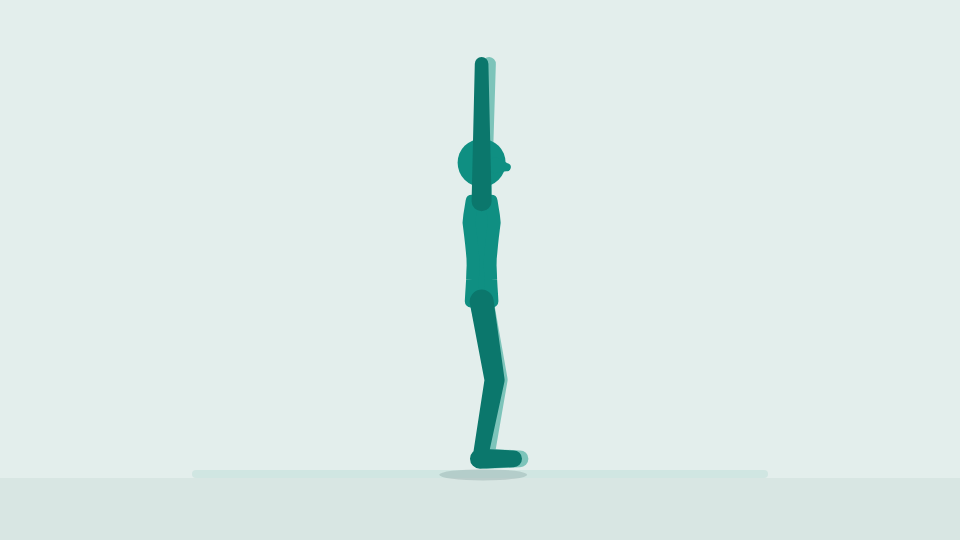
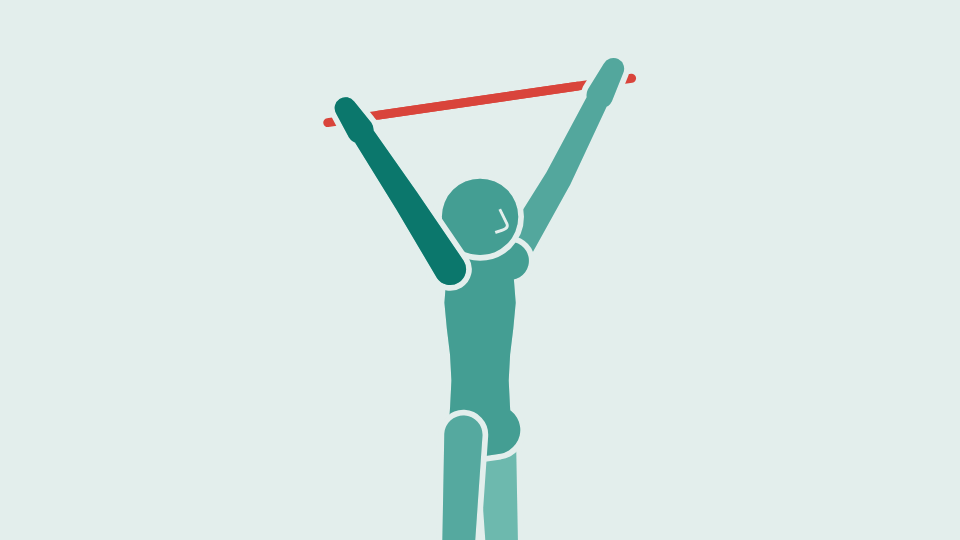
feat: add Shoulder Pass-Throughs exercise with 3D animation and update related components

Changed region(s): [[0.3125, 0.0889, 0.6562, 1.0]]

diff --git a/src/lib/rig3d.ts b/src/lib/rig3d.ts
@@ -294,6 +294,12 @@ export type Clip3D = {
    * the strap's color, the strand in front over the legs and the one behind under them.
    */
   miniBand?: 'ankles' | 'knees';
+  /**
+   * A band or towel held taut between the hands, from one hand to the other with a short end
+   * showing past each (shoulder pass-throughs). It's drawn in the strap's color, over the figure
+   * while it's in front of the shoulders and under it once it's gone behind them.
+   */
+  handBand?: true;
 };
 
 export type HeldLimb = {
@@ -1445,6 +1451,77 @@ export function miniBandPoints(skeleton: Skeleton, view: Mat3, at: NonNullable<C
   return [half(1), half(-1)];
 }
 
+/**
+ * How far past a hand's edge on screen the part of a band drawn over the figure stops: the
+ * background outline drawn around the hand, and half the width of the band's stroke, whose round
+ * end reaches that far. That's where the band under the hand comes out from under its outline, so
+ * the two meet and the hand looks drawn over the band.
+ */
+const HAND_BAND_CLEARANCE = 4.5 + 3.5;
+
+/** How far along a line on screen from a point inside a hand it leaves the hand, as the figure draws it. */
+function outOfHand(arm: readonly Vec3[], view: Mat3, from: Vec2, toward: Vec2): number {
+  'worklet';
+  const a = project(view, arm[2]);
+  const b = project(view, arm[3]);
+  const [wide, narrow] = ARM_RADII[2];
+  const dx = b[0] - a[0];
+  const dy = b[1] - a[1];
+  const lengthSquared = dx * dx + dy * dy;
+  let along = 0;
+  for (; along < 200; along += 0.5) {
+    const x = from[0] + toward[0] * along;
+    const y = from[1] + toward[1] * along;
+    const t = lengthSquared < 1e-6 ? 0 : Math.min(1, Math.max(0, ((x - a[0]) * dx + (y - a[1]) * dy) / lengthSquared));
+    if (Math.hypot(x - a[0] - t * dx, y - a[1] - t * dy) > lerp(wide, narrow, t) + HAND_BAND_CLEARANCE) break;
+  }
+  return along;
+}
+
+/** Points in the room as a line on screen through them, to stroke. */
+function lineThrough(view: Mat3, points: readonly Vec3[]): string {
+  'worklet';
+  let line = '';
+  for (let i = 0; i < points.length; i++) {
+    const point = project(view, points[i]);
+    line += `${i === 0 ? 'M' : 'L'}${fixed(point[0])} ${fixed(point[1])}`;
+  }
+  return line;
+}
+
+/** How far past the middle of each hand a band held in it shows, sticking out of the fist. */
+const HAND_BAND_END = 24;
+
+/**
+ * A band held taut between the hands, as lines on screen. It runs through the middle of each
+ * fist and out past it, and the part through the hands and past them is always drawn under the
+ * figure, so each hand is drawn closed around it with its end sticking out the other side. While
+ * the band is in front of the shoulders, the part between the hands is drawn again over the figure,
+ * from the edge of one hand to the edge of the other, so it goes over the body but still under the
+ * hands. Behind the shoulders that part is only the one under the figure, and the body hides it.
+ */
+export function handBandLine(skeleton: Skeleton, view: Mat3): { under: string; over: string } {
+  'worklet';
+  const left = lerpVec(skeleton.leftArm[2], skeleton.leftArm[3], 0.5);
+  const right = lerpVec(skeleton.rightArm[2], skeleton.rightArm[3], 0.5);
+  const across = unit(sub(right, left), skeleton.spineRight[0]);
+  const under = lineThrough(view, [add(left, scaled(across, -HAND_BAND_END)), left, right, add(right, scaled(across, HAND_BAND_END))]);
+  const shoulders = lerpVec(skeleton.leftArm[0], skeleton.rightArm[0], 0.5);
+  if (project(view, lerpVec(left, right, 0.5))[2] <= project(view, shoulders)[2]) return { under, over: '' };
+  const from = project(view, left);
+  const to = project(view, right);
+  const length = Math.hypot(to[0] - from[0], to[1] - from[1]);
+  if (length < 1e-6) return { under, over: '' };
+  const toward: Vec2 = [(to[0] - from[0]) / length, (to[1] - from[1]) / length];
+  const start = outOfHand(skeleton.leftArm, view, [from[0], from[1]], toward);
+  const end = length - outOfHand(skeleton.rightArm, view, [to[0], to[1]], [-toward[0], -toward[1]]);
+  if (end <= start) return { under, over: '' };
+  return {
+    under,
+    over: `M${fixed(from[0] + toward[0] * start)} ${fixed(from[1] + toward[1] * start)}L${fixed(from[0] + toward[0] * end)} ${fixed(from[1] + toward[1] * end)}`,
+  };
+}
+
 /** A phone's size: about 15 by 7 by 1 cm, with a shin of 100 at about 40 cm. */
 export const PHONE = { length: 37, width: 18, depth: 3 };
 /** How far in from the phone's edge its screen starts. */
@@ -2146,17 +2223,6 @@ function floorMarks(view: Mat3, travel: number, journey: number): string {
   return path;
 }
 
-/** Points in the room as a line on screen through them, to stroke. */
-function lineThrough(view: Mat3, points: readonly Vec3[]): string {
-  'worklet';
-  let line = '';
-  for (let i = 0; i < points.length; i++) {
-    const point = project(view, points[i]);
-    line += `${i === 0 ? 'M' : 'L'}${fixed(point[0])} ${fixed(point[1])}`;
-  }
-  return line;
-}
-
 /** The clip at a moment, drawn. */
 export function frameAt(clip: Clip3D, view: Mat3, timeMs: number): FigureFrame {
   'worklet';
@@ -2169,6 +2235,11 @@ export function frameAt(clip: Clip3D, view: Mat3, timeMs: number): FigureFrame {
     const [front, back] = miniBandPoints(skeleton, view, clip.miniBand);
     frame.strap += lineThrough(view, front);
     frame.bandBehind = lineThrough(view, back);
+  }
+  if (clip.handBand) {
+    const band = handBandLine(skeleton, view);
+    frame.bandBehind += band.under;
+    frame.strap += band.over;
   }
   if (clip.follow) frame.floor = floorMarks(view, travel, travelOf(clip, clip.keyframes[clip.keyframes.length - 1].pose));
   return frame;

diff --git a/src/lib/rig3d.test.ts b/src/lib/rig3d.test.ts
@@ -42,6 +42,7 @@ import {
   SEATED_PIKE_STRETCH_3D,
   SHOULDER_ABDUCTION_3D,
   SHOULDER_EXTERNAL_ROTATION_3D,
+  SHOULDER_PASS_THROUGHS_3D,
   SIT_AND_REACH_3D,
   SQUAT_TO_STAND_3D,
   STRAIGHT_LEG_RAISE_3D,
@@ -1711,6 +1712,67 @@ describe('3D clips', () => {
     const frame = frameAt(KNEE_TO_CHEST_3D, viewOf(KNEE_TO_CHEST_3D.camera), 0);
     expect(frame.bandBehind).toBe('');
     expect(frame.strap).toBe('');
+  });
+
+  it('sweeps both straight arms from in front of the hips up overhead and down behind the back on a wide grip, and back, in shoulder pass-throughs', () => {
+    const clip = SHOULDER_PASS_THROUGHS_3D;
+    const skeletons = samples(clip).map(solvePose);
+    const start = skeletons[0];
+    const grip = distance(start.rightArm[2], start.leftArm[2]);
+    for (const { rightArm, leftArm, rightLeg, leftLeg, spine } of skeletons) {
+      // Standing still, the arms straight the whole way and the hands the same distance apart, as
+      // holding a towel or band, and level with each other.
+      expect(distance(spine[0], start.spine[0])).toBeCloseTo(0);
+      for (const [leg, first] of [[rightLeg, start.rightLeg], [leftLeg, start.leftLeg]] as const) expect(distance(leg[2], first[2])).toBeCloseTo(0);
+      for (const arm of [rightArm, leftArm]) expect(angleAt(arm[0], arm[1], arm[2])).toBeGreaterThan(170);
+      expect(distance(rightArm[2], leftArm[2])).toBeCloseTo(grip);
+      expect(rightArm[2][1]).toBeCloseTo(leftArm[2][1]);
+    }
+    // A wide grip: the hands well over twice as far apart as the shoulders.
+    expect(grip).toBeGreaterThan(3 * SKELETON.shoulder * 2);
+    // In front of the hips to start, up over the head, and down behind the back.
+    expect(start.rightArm[2][0]).toBeGreaterThan(start.spine[0][0] + 20);
+    expect(start.rightArm[2][1]).toBeLessThan(start.spine[0][1] + 40);
+    const top = skeletons.reduce((best, s) => (s.rightArm[2][1] > best.rightArm[2][1] ? s : best));
+    expect(top.rightArm[2][1]).toBeGreaterThan(top.head[1] + 60);
+    const behind = solvePose(clip.keyframes[1 + 2 * 24 + 1].pose);
+    expect(behind.rightArm[2][0]).toBeLessThan(behind.spine[0][0] - 20);
+    expect(behind.rightArm[2][1]).toBeLessThan(behind.spine[0][1] + 40);
+    // The shoulders rise as the arms go overhead.
+    expect(top.rightArm[0][1]).toBeGreaterThan(start.rightArm[0][1] + 3);
+    // The near arm stays over the body and the far one behind it the whole way.
+    for (const order of new Set(drawOrders(clip))) {
+      const parts = order.split(' ');
+      expect(parts[parts.length - 1]).toBe('rightArm');
+      expect(parts.indexOf('leftArm')).toBeLessThan(parts.indexOf('torso'));
+    }
+    // The band runs through both fists and out past them, under the figure so the hands close over
+    // it. The part between the hands is drawn again over the figure while it's in front of the
+    // body, and goes from one side to the other only while it's up over the head, clear of the body.
+    const view = viewOf(clip.camera);
+    const total = durationOf(clip);
+    let sides = '';
+    for (let t = 0; t <= total; t += 10) {
+      const frame = frameAt(clip, view, t);
+      expect(frame.bandBehind).toMatch(/^M[-\d. ]+(L[-\d. ]+){3}$/);
+      const front = frame.strap !== '';
+      if (front) expect(frame.strap).toMatch(/^M[-\d. ]+L[-\d. ]+$/);
+      const side = front ? 'F' : 'B';
+      if (!sides.endsWith(side)) {
+        const first = sides === '';
+        sides += side;
+        const s = solvePose(poseAt3(clip, t));
+        if (!first) expect(s.rightArm[2][1]).toBeGreaterThan(s.head[1] + 40);
+      }
+    }
+    expect(sides).toBe('FBF');
+    // Over the figure it stops at the edge of each hand rather than covering them.
+    const [, x0, y0, x1, y1] = frameAt(clip, view, 0).strap.match(/^M([-\d.]+) ([-\d.]+)L([-\d.]+) ([-\d.]+)$/)!.map(Number);
+    const hand = (arm: readonly Vec3[]) => project(view, [(arm[2][0] + arm[3][0]) / 2, (arm[2][1] + arm[3][1]) / 2, (arm[2][2] + arm[3][2]) / 2]);
+    for (const [x, y] of [[x0, y0], [x1, y1]]) {
+      const nearest = Math.min(...[start.rightArm, start.leftArm].map((arm) => Math.hypot(x - hand(arm)[0], y - hand(arm)[1])));
+      expect(nearest).toBeGreaterThan(10);
+    }
   });
 
   it('folds to the floor, walks the hands out to a plank and the feet in after them, and stands up further along, the camera following, in inchworm', () => {

diff --git a/src/data/exercise-animations-3d.ts b/src/data/exercise-animations-3d.ts
@@ -6038,3 +6038,60 @@ export const SEATED_HIP_INTERNAL_ROTATION_3D: Clip3D = {
     { ms: 1200, pose: SEATED_IR_IN },
   ],
 };
+
+// --- Shoulder pass-throughs: standing tall with a wide grip, both straight arms sweep from in front of the hips up overhead and down behind the back, and back ---
+
+/** How far out to each side the hands are, holding the towel or band with a wide grip. */
+const PASS_HAND_OUT = 115;
+/** How far past straight down the hands are in front of the hips, and behind the back. */
+const PASS_PAST_DOWN = 20;
+/** How far the shoulders rise toward the ears with the arms overhead. */
+const PASS_SHRUG = 18;
+
+/**
+ * The arms this far round from straight down (0), forward and up: 180 is overhead and 360 straight
+ * down behind. With the grip wide and the arms straight, each hand stays the same distance out to
+ * its side, so it goes round its shoulder on a circle, and the shoulders rise as the arms go up.
+ */
+const passAt = (degrees: number): Pose3 => {
+  const shrug = PASS_SHRUG * Math.sin(radians(degrees / 2)) ** 2;
+  const body: Pose3 = { ...STANDING, rightArm: { shrug }, leftArm: { shrug } };
+  const skeleton = solvePose(body);
+  const hand = (shoulder: Vec3, side: 1 | -1): Vec3 => {
+    const reach = Math.sqrt(ARM_REACH ** 2 - (side * PASS_HAND_OUT - shoulder[2]) ** 2);
+    return [shoulder[0] + reach * Math.sin(radians(degrees)), shoulder[1] - reach * Math.cos(radians(degrees)), side * PASS_HAND_OUT];
+  };
+  return {
+    ...body,
+    pins: {
+      rightHand: { at: hand(skeleton.rightArm[0], 1), pole: [-Math.cos(radians(degrees)), -Math.sin(radians(degrees)), 0.3] },
+      leftHand: { at: hand(skeleton.leftArm[0], -1), pole: [-Math.cos(radians(degrees)), -Math.sin(radians(degrees)), -0.3] },
+    },
+  };
+};
+const PASS_FRONT = passAt(PASS_PAST_DOWN);
+const PASS_BEHIND = passAt(360 - PASS_PAST_DOWN);
+/** Pinned hands go straight between keyframes, cutting across their circles, so each half of the sweep takes this many. */
+const PASS_STEPS = 24;
+
+export const SHOULDER_PASS_THROUGHS_3D: Clip3D = {
+  view: '3d',
+  // From the front and a little to the right, close on the upper body: the arms rise wide apart in
+  // a Y overhead and go down behind the back on either side of it, and the arm going over the far
+  // shoulder shows its sweep forward and back. From the side the two arms lie one over the other;
+  // straight from the front the sweep forward and back comes at the camera.
+  camera: { yaw: 55, pitch: 12, fit: 'upper' },
+  highlight: ['rightArm', 'leftArm'],
+  handBand: true,
+  // Overhead.
+  stillFrame: 1 + PASS_STEPS,
+  keyframes: [
+    { ms: 0, pose: PASS_FRONT },
+    { ms: 300, pose: PASS_FRONT },
+    ...alongArc(1500, PASS_STEPS, (t) => passAt(mix(PASS_PAST_DOWN, 180, t))),
+    ...alongArc(1500, PASS_STEPS, (t) => passAt(mix(180, 360 - PASS_PAST_DOWN, t))),
+    { ms: 300, pose: PASS_BEHIND },
+    ...alongArc(1500, PASS_STEPS, (t) => passAt(mix(360 - PASS_PAST_DOWN, 180, t))),
+    ...alongArc(1500, PASS_STEPS, (t) => passAt(mix(180, PASS_PAST_DOWN, t))),
+  ],
+};

diff --git a/src/components/exercise-figure-3d.tsx b/src/components/exercise-figure-3d.tsx
@@ -236,11 +236,11 @@ export function ExerciseFigure3D({ clip, playing = true, paused = false }: { cli
           </>
         )}
         {/* The back of a mini band, under the legs, so it shows only between them. */}
-        {clip.miniBand && <AnimatedPath animatedProps={bandBehind} fill="none" stroke={COLORS.strap} strokeWidth={7} strokeLinejoin="round" strokeLinecap="round" />}
+        {(clip.miniBand || clip.handBand) && <AnimatedPath animatedProps={bandBehind} fill="none" stroke={COLORS.strap} strokeWidth={7} strokeLinejoin="round" strokeLinecap="round" />}
         {slots.map((index) => (
           <Slot key={index} frame={frame} index={index} trail={stage.trail} trailed={trailedPart(clip.trail)} phone={clip.phone !== undefined} dumbbells={clip.dumbbells !== undefined} />
         ))}
-        {(clip.strap || clip.miniBand) && <AnimatedPath animatedProps={strap} fill="none" stroke={COLORS.strap} strokeWidth={7} strokeLinejoin="round" strokeLinecap="round" />}
+        {(clip.strap || clip.miniBand || clip.handBand) && <AnimatedPath animatedProps={strap} fill="none" stroke={COLORS.strap} strokeWidth={7} strokeLinejoin="round" strokeLinecap="round" />}
       </Svg>
       {clip.partner && <PartnerBadge />}
     </View>

diff --git a/src/data/exercises.ts b/src/data/exercises.ts
@@ -66,6 +66,7 @@ import {
   SEATED_PIKE_STRETCH_3D,
   SEATED_SHOULDER_EXTENSION_3D,
   SEATED_STRADDLE_SIDE_BEND_3D,
+  SHOULDER_PASS_THROUGHS_3D,
   SQUAT_TO_STAND_3D,
   STANDING_FORWARD_FOLD_3D,
   THREE_LEGGED_DOWNWARD_FACING_DOG_3D,
@@ -73,7 +74,6 @@ import {
 } from './exercise-animations-3d';
 
 import {
-  SHOULDER_PASS_THROUGHS,
   SIDE_LYING_EXTERNAL_ROTATION,
   SLEEPER_STRETCH,
   THE_SAGITTARIUS,
@@ -827,7 +827,7 @@ const ALL_EXERCISES: Exercise[] = [
       'Bring it back to the front and keep repeating, narrowing your grip as it gets easier',
     ],
     photo: require('@/assets/images/exercises/shoulder-pass-throughs.png'),
-    animation: SHOULDER_PASS_THROUGHS,
+    animation: SHOULDER_PASS_THROUGHS_3D,
     active: true,
     oneMinuteOnly: true,
   },

diff --git a/README.md b/README.md
@@ -75,6 +75,7 @@ The old engine poses a flat figure in screen coordinates. Anything moving toward
 - **Scenery** (`scenery`) is blocks with their sides square to the room, each from one corner to the opposite one: a wall, a box, a table top and its legs. They're drawn behind the figure, over the mat and the shadows, so pick a camera that looks past the figure at them, not through them. For a wall or box the figure faces, that means from a little behind (knee to wall and sit and reach use a negative `yaw`). Scenery doesn't change the frame, so a wall can run off the top of it; the mat reaches under anything standing on the floor. Blocks are drawn far side first along whichever axis separates them, not by the distance to their middles, which put a table's front legs over its top.
 - **A strap** (`strap: 'rightFoot'`) loops around the ball of a foot with an end in each hand, drawn over the figure. Pin both hands, and keep them the same distance from the foot in every pose so the strap doesn't stretch (`strapHeldAt` in the clips file does this for the straight leg raise). `strap: { foot: 'rightFoot', hand: 'rightHand' }` puts both ends in one hand instead, for pulling a foot out to the side (back lying reverse pigeon); pin that hand. The loop goes in a half circle around the side of the foot away from the hand, standing clear of the foot so it's drawn around it and not across it. It stands in for a band there: it's drawn the same, and doesn't stretch.
 - **A mini band** (`miniBand: 'ankles'` or `'knees'`) is a loop pulled tight around both ankles, or both knees: a half circle around the outside of each leg and two strands across the gap, square to the legs and standing clear of them so it's drawn around them, not across them. It's drawn in the strap's color, the strand in front over the legs and the one behind under them, where it shows only between them (seated hip internal rotation). It stretches with the legs, so nothing needs pinning for it.
+- **A band held between the hands** (`handBand: true`) is a towel or band held taut from one hand to the other (shoulder pass-throughs). The hands have to keep the same distance apart for it to look taut, since it doesn't stretch. It runs through the middle of each fist and sticks out past it, and that whole line is drawn under the figure, so the hands look closed around it. While the band is in front of the shoulders, the part between the hands is drawn again over the figure, stopping at each hand's outline, so it crosses the body but still goes under the hands. Behind the shoulders the body hides that part. Put the change where the band is clear of the body, overhead for pass-throughs.
 - **What a test is measured with** goes where its instructions put it. `phone` holds it in a hand, in line with the forearm (`bone: 2`), or straps it to the upper arm or thigh (`bone: 0`) or forearm or shin (`bone: 1`), `at` that far along from the shoulder or hip, on the limb's `front`, `back`, `outside` or `inside`. The front of a leg is the kneecap's side, of an arm the side the elbow folds toward; a straight limb takes the body's front. A strapped phone has a strap around the limb behind it, like an armband, and on the far side of the limb it goes under it. Its screen shows the reading in seven-segment digits: how far the phone has turned since the clip's first pose, plus `startReading` (90 for overhead reach, which starts with the arm at the ceiling), so it reads the angle the test measures. `tape` lays a tape measure flat from one point to another, on the floor or a block's top, and the frame takes it in. Every flexibility test measured by angle has a phone, every one measured by distance a tape (`rig3d.test.ts` checks).
 - **Thumbs**: a hand is a plain round shape, the same either way up, so a hand pin can say which way the palm faces (`palm`), and the hand gets a thumb on the side it's really on. Sticking out of the hand, it's part of the hand's outline; turned toward the camera it's drawn again over the hand with its own outline, and turned away the hand hides it. Such a hand also has thin lines between its fingers, splitting it into four. They're spread across the hand's width, so they turn with it: apart with the back of the hand or the palm to the camera, closing up as it turns edge on, and gone once the fingers are one behind the other. Give `palm` in every pose or none, and turn it with the forearm (it faces the thigh with the arm hanging, the thumb forward). Only use it where which way the palm faces is what the exercise is about: it's what tells the manual extensor (palm down, thumb hidden) and flexor (palm up, thumb showing) forearm stretches apart.
 - **Fingers**: an arm's `fingers` (`{ knuckle, middle, tip }`, degrees of bend at each joint toward the palm) draws a hand with fingers that bend in place of the plain round one, at a real hand's size (`HAND` in `rig3d.ts`, about twice the plain hand's length), so use it with `fit: 'hands'`. The four fingers bend together, as one, and the hand is wide across the knuckles and thin from palm to back, so look at it along the knuckles, from the thumb's or the little finger's side, where the fingers are one behind the other and every bend shows in profile. The fingers bend toward the palm: an arm posed by its angles has the palm facing in, so palms facing each other keep the elbows at the shoulders' width; pin the hand with a `palm` to put it anywhere (finger tendon glides holds the hands up either side of the head, palms in, so the curled fingers stay clear of the face). A pinned hand without a `palm` has no fingers to bend.
@@ -206,16 +207,16 @@ Moved to the new engine:
 | Reverse clamshells | Library | `REVERSE_CLAMSHELLS_3D` |
 | Reverse scorpion | Library | `REVERSE_SCORPION_3D` |
 | Seated hip internal rotation | Library | `SEATED_HIP_INTERNAL_ROTATION_3D` |
+| Shoulder pass-throughs | Library | `SHOULDER_PASS_THROUGHS_3D` |
 
 Still on the old engine (clip names in `exercise-animations.ts`). Where a clip needs something the new engine doesn't have yet, it's noted.
 
-All ten flexibility tests are on the new engine. The last six to move (knee to wall, the two seated hip rotations, sit and reach, knee to chest and straight leg raise) haven't been checked on a device yet, so their old clips are still in `exercise-animations.ts`; delete them once they have. The same goes for the three 90 to 90 clips in the library (`NINETY_TO_NINETY_ROTATIONS` has to stay either way: windshield wipers with knee lift is built on it), and for the two pancake clips (`PANCAKE_UP` has to stay either way: the seated straddle side bend is built on it), and for the active straight leg raise, ankle mobilization, the behind the back chest opener, back lying reverse pigeon, belly down foot splay, the five squats (bottom squat, bottom squat rotation, squat to stand, Cossack squat and resting Cossack squat), Blackburn, butterfly, cobra to prayer, downward facing dog, prayer pose, puppy pose, lying knee hug, lying hamstring stretch, seated pike stretch, three legged downward facing dog, standing forward fold, kneeling wrist stretch, floor angels, reverse tabletop, knight stretch, horse stance, the lying windshield wiper hold, frog stretch, frog rocks, knight to hamstring, couch stretch, pyramid stretch, wrist rocks, elephant walk, the seated straddle side bend, seated shoulder extension, the half kneeling frog stretch, the neck side stretch, the cross-body shoulder stretch, the overhead triceps stretch, cow face arms, the pigeon stretch, hip circles, the Breakdancer, scap mobilization, the lizard pose, the figure four stretch, the two manual forearm stretches, downward facing dog to cobra, Cuban rotation, the half spinal twist, the half-twisted lizard, open book, inchworm, the pec stretch on the ground, reverse clamshells, reverse scorpion, seated hip internal rotation and finger tendon glides (`FINGER_TENDON_GLIDES` is still checked by `figure-rig.test.ts` and `exercise-video.test.tsx` until then).
+All ten flexibility tests are on the new engine. The last six to move (knee to wall, the two seated hip rotations, sit and reach, knee to chest and straight leg raise) haven't been checked on a device yet, so their old clips are still in `exercise-animations.ts`; delete them once they have. The same goes for the three 90 to 90 clips in the library (`NINETY_TO_NINETY_ROTATIONS` has to stay either way: windshield wipers with knee lift is built on it), and for the two pancake clips (`PANCAKE_UP` has to stay either way: the seated straddle side bend is built on it), and for the active straight leg raise, ankle mobilization, the behind the back chest opener, back lying reverse pigeon, belly down foot splay, the five squats (bottom squat, bottom squat rotation, squat to stand, Cossack squat and resting Cossack squat), Blackburn, butterfly, cobra to prayer, downward facing dog, prayer pose, puppy pose, lying knee hug, lying hamstring stretch, seated pike stretch, three legged downward facing dog, standing forward fold, kneeling wrist stretch, floor angels, reverse tabletop, knight stretch, horse stance, the lying windshield wiper hold, frog stretch, frog rocks, knight to hamstring, couch stretch, pyramid stretch, wrist rocks, elephant walk, the seated straddle side bend, seated shoulder extension, the half kneeling frog stretch, the neck side stretch, the cross-body shoulder stretch, the overhead triceps stretch, cow face arms, the pigeon stretch, hip circles, the Breakdancer, scap mobilization, the lizard pose, the figure four stretch, the two manual forearm stretches, downward facing dog to cobra, Cuban rotation, the half spinal twist, the half-twisted lizard, open book, inchworm, the pec stretch on the ground, reverse clamshells, reverse scorpion, seated hip internal rotation, shoulder pass-throughs and finger tendon glides (`FINGER_TENDON_GLIDES` is still checked by `figure-rig.test.ts` and `exercise-video.test.tsx` until then).
 
 Library (`src/data/exercises.ts`):
 
 | Exercise | Clip | Needs |
 |---|---|---|
-| Shoulder pass-throughs | `SHOULDER_PASS_THROUGHS` | |
 | Side-lying external rotation | `SIDE_LYING_EXTERNAL_ROTATION` | dumbbell |
 | Sleeper stretch | `SLEEPER_STRETCH` | |
 | The Sagittarius | `THE_SAGITTARIUS` | |
